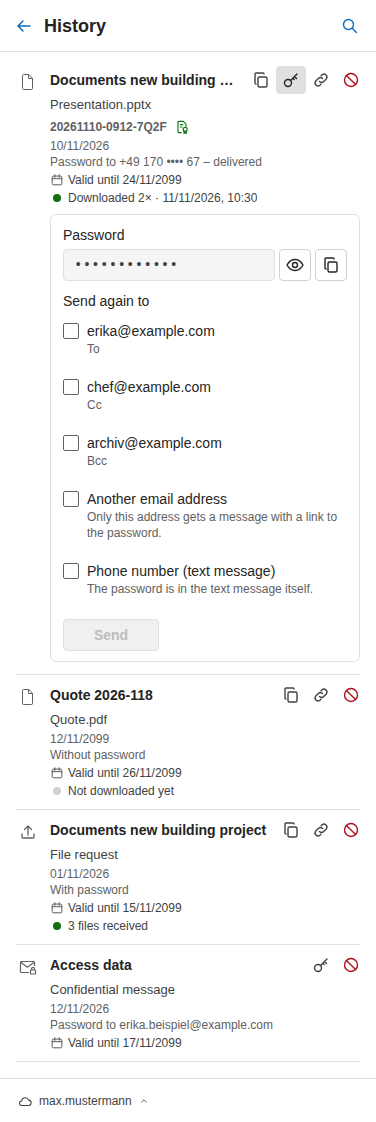
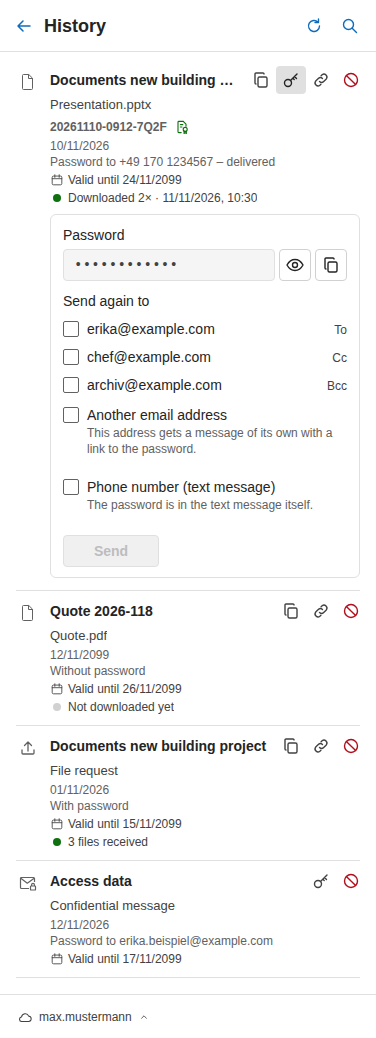
UI tests: refresh button when reading, tooltip checks without a built regular expression; README pictures from CI

diff --git a/addin/e2e/taskpane.e2e.ts b/addin/e2e/taskpane.e2e.ts
@@ -2184,7 +2184,7 @@ test("Verlauf and Zustellnachweise: many recipients – the first two and \"und 
   await openHistory(page);
   const sent = page.locator("#shares .share").nth(0).locator(".share-sent");
   await expect(sent).toHaveText("12.11.2026 · Nachricht und Kennwort an erika@example.com, max@example.com und 3 weitere");
-  await expect(sent).toHaveAttribute("title", new RegExp(many.join(", ").replace(/\./g, "\\.")));
+  expect(await sent.getAttribute("title")).toContain(many.join(", "));
   // The search still finds a recipient that is not written out.
   await page.click("#shares-search-toggle");
   await page.fill("#shares-search", "maria@");
@@ -2207,7 +2207,7 @@ test("reading a mail: many recipients shortened in its links too – \"und N wei
   });
   const row = page.locator("#mail-shares .share").first();
   await expect(row.locator(".share-sent")).toHaveText("12.11.2026 · Nachricht an erika@example.com, max@example.com und 3 weitere");
-  await expect(row.locator(".share-sent")).toHaveAttribute("title", new RegExp(many.join(", ").replace(/\./g, "\\.")));
+  expect(await row.locator(".share-sent").getAttribute("title")).toContain(many.join(", "));
   await expect(row.locator(".share-password")).toHaveText("Kennwort an max@example.com, anna@example.com und 2 weitere");
 });
 
@@ -2237,8 +2237,9 @@ test("reading a mail: the links of that mail, \"Verlauf\" in the menu, nothing t
   await expect(inMail.nth(0).locator(".share-password")).toHaveAttribute("title", /zugestellt am 10.11.2026, 11:00 Uhr/);
   await expect(inMail.nth(1).locator(".share-item")).toHaveText("Dateianforderung");
   await expect(page.locator("#mail-none")).toBeHidden();
-  // Reading a mail too: no "Aktualisieren" next to the title (it reloads by itself), the account at the bottom.
-  await expect(page.locator("#panel-mail .list-head button")).toHaveCount(0);
+  // Reading a mail too: "Aktualisieren" right of the title (it also reloads by itself), the account at the bottom.
+  await expect(page.locator("#panel-mail .list-head button")).toHaveCount(1);
+  await expect(page.locator("#mail-refresh")).toHaveAttribute("aria-label", "Aktualisieren");
   await expect(page.locator("#account-toggle")).toHaveText("max.mustermann");
   await expect(page.locator(".share .insert").first()).toBeHidden(); // a mail being read cannot take a link
   await expect(page.locator("#panel-mail")).not.toContainText("Weitere Freigaben");
